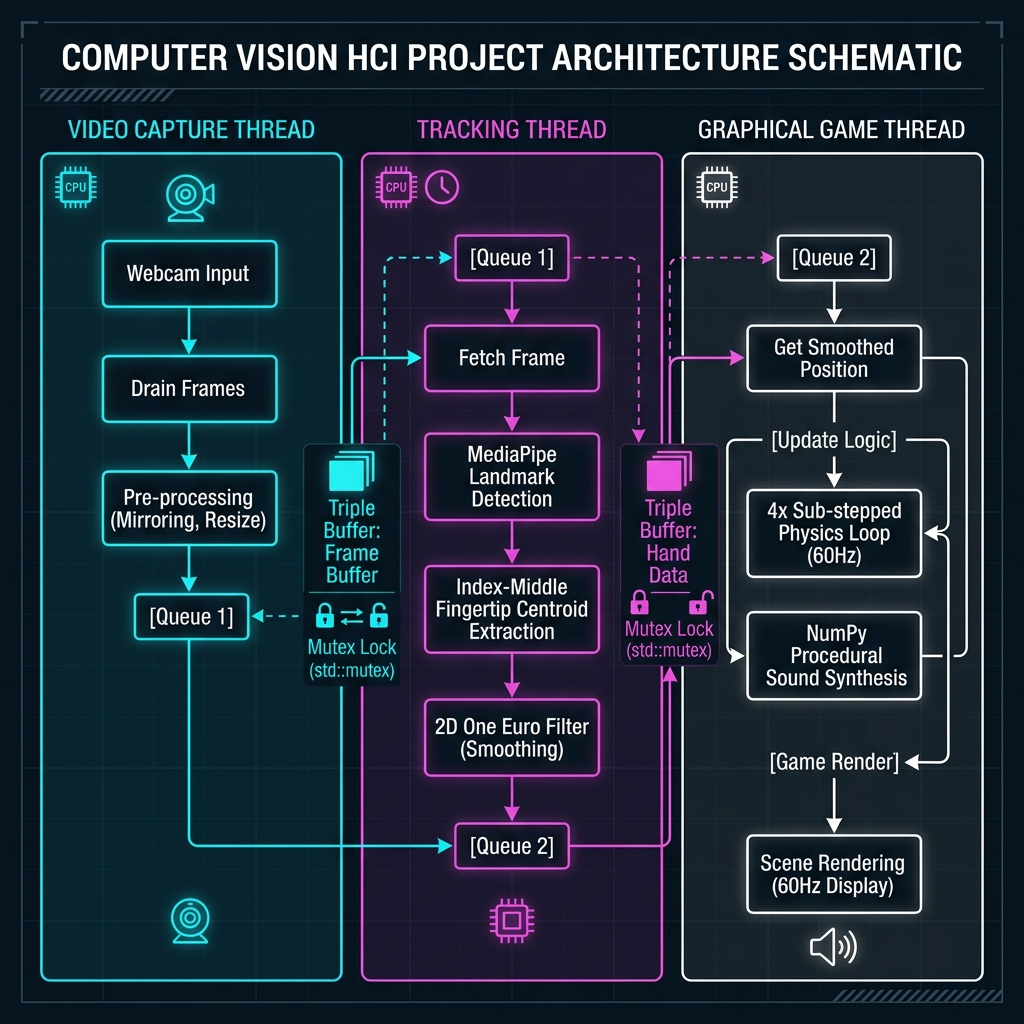
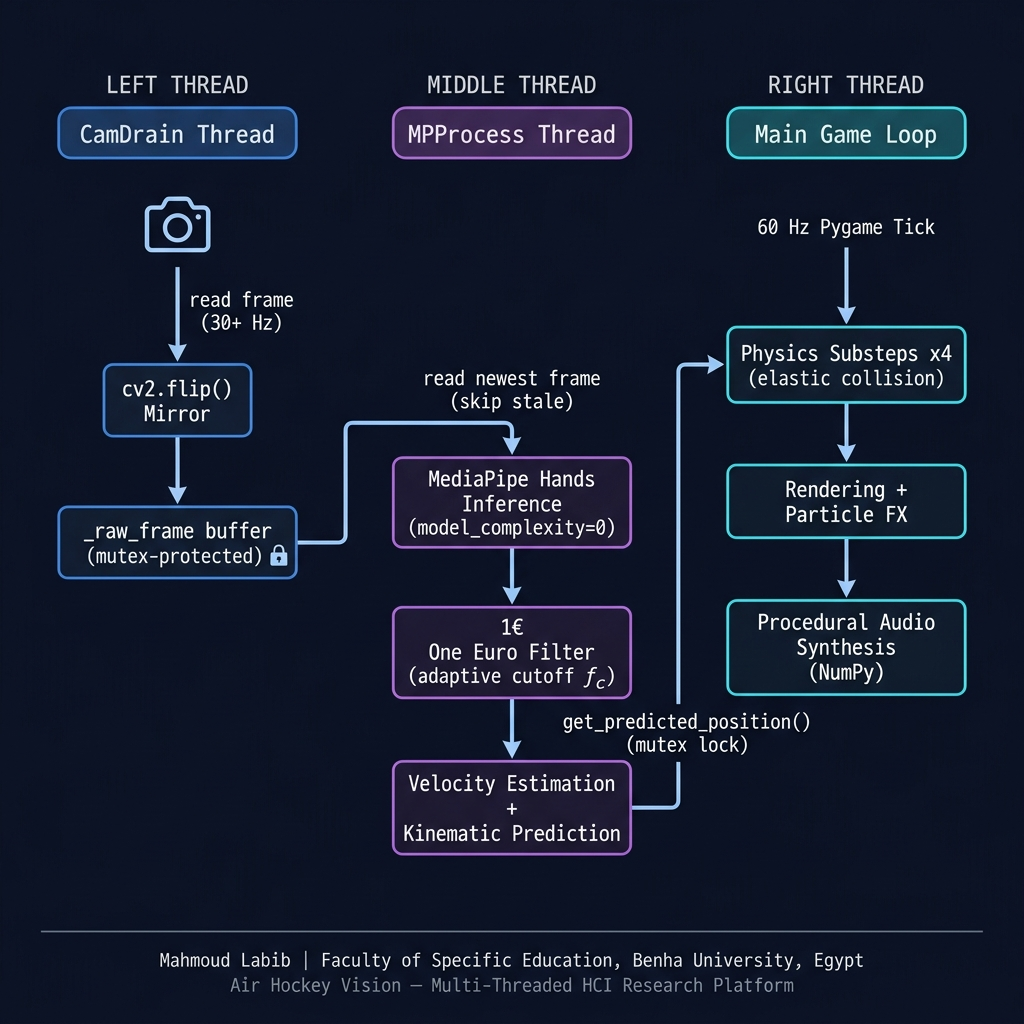
update: change affiliation to Faculty of Specific Education and regenerate architecture diagram

Changed region(s): [[0.0312, 0.0312, 0.9688, 1.0]]

diff --git a/README.md b/README.md
@@ -11,7 +11,7 @@
 
 **A high-performance, research-grade Python system demonstrating a multi-threaded computer vision interface for real-time Human-Computer Interaction (HCI). Fully open-source and submitted for peer review in the Journal of Open Source Software (JOSS).**
 
-> **Author:** Mahmoud Labib — Faculty of Computers and Artificial Intelligence, Benha University, Egypt
+> **Author:** Mahmoud Labib — Faculty of Specific Education, Benha University, Egypt
 
 ---
 
@@ -349,7 +349,7 @@ If you use this software in your research, please cite it using the following Bi
   journal = {Journal of Open Source Software},
   year    = {2026},
   publisher = {The Open Journal},
-  note    = {Faculty of Computers and Artificial Intelligence, Benha University, Egypt}
+  note    = {Faculty of Specific Education, Benha University, Egypt}
 }
 ```
 
@@ -373,4 +373,4 @@ All contributors are expected to follow the [Code of Conduct](CODE_OF_CONDUCT.md
 
 This project is licensed under the **MIT License**. See the [LICENSE](LICENSE) file for details.
 
-Copyright (c) 2026 Mahmoud Labib, Faculty of Computers and Artificial Intelligence, Benha University, Egypt.
+Copyright (c) 2026 Mahmoud Labib, Faculty of Specific Education, Benha University, Egypt.

diff --git a/paper.md b/paper.md
@@ -12,7 +12,7 @@ authors:
     orcid: 0009-0003-8176-9214
     affiliation: 1
 affiliations:
-  - name: Faculty of Computers and Artificial Intelligence, Benha University, Egypt
+  - name: Faculty of Specific Education, Benha University, Egypt
     index: 1
 date: 7 June 2026
 bibliography: paper.bib
@@ -96,6 +96,6 @@ During the preparation of this manuscript, the authors utilized generative AI as
 
 # Acknowledgements
 
-The author acknowledges the Faculty of Computers and Artificial Intelligence, Benha University, Egypt, for providing the research resources and academic environment that supported this project. We also thank the open-source community developers of Pygame Community Edition, OpenCV, and MediaPipe for providing the foundations of this work.
+The author acknowledges the Faculty of Specific Education, Benha University, Egypt, for providing the research resources and academic environment that supported this project. We also thank the open-source community developers of Pygame Community Edition, OpenCV, and MediaPipe for providing the foundations of this work.
 
 # References

diff --git a/SECURITY.md b/SECURITY.md
@@ -14,7 +14,7 @@ If you discover a security vulnerability in this project, please do **not** open
 
 **Mahmoud Labib**
 Email: mahmoud.labib@fci.bu.edu.eg
-Affiliation: Faculty of Computers and Artificial Intelligence, Benha University, Egypt
+Affiliation: Faculty of Specific Education, Benha University, Egypt
 
 Please include in your report:
 - A description of the vulnerability and its potential impact.
